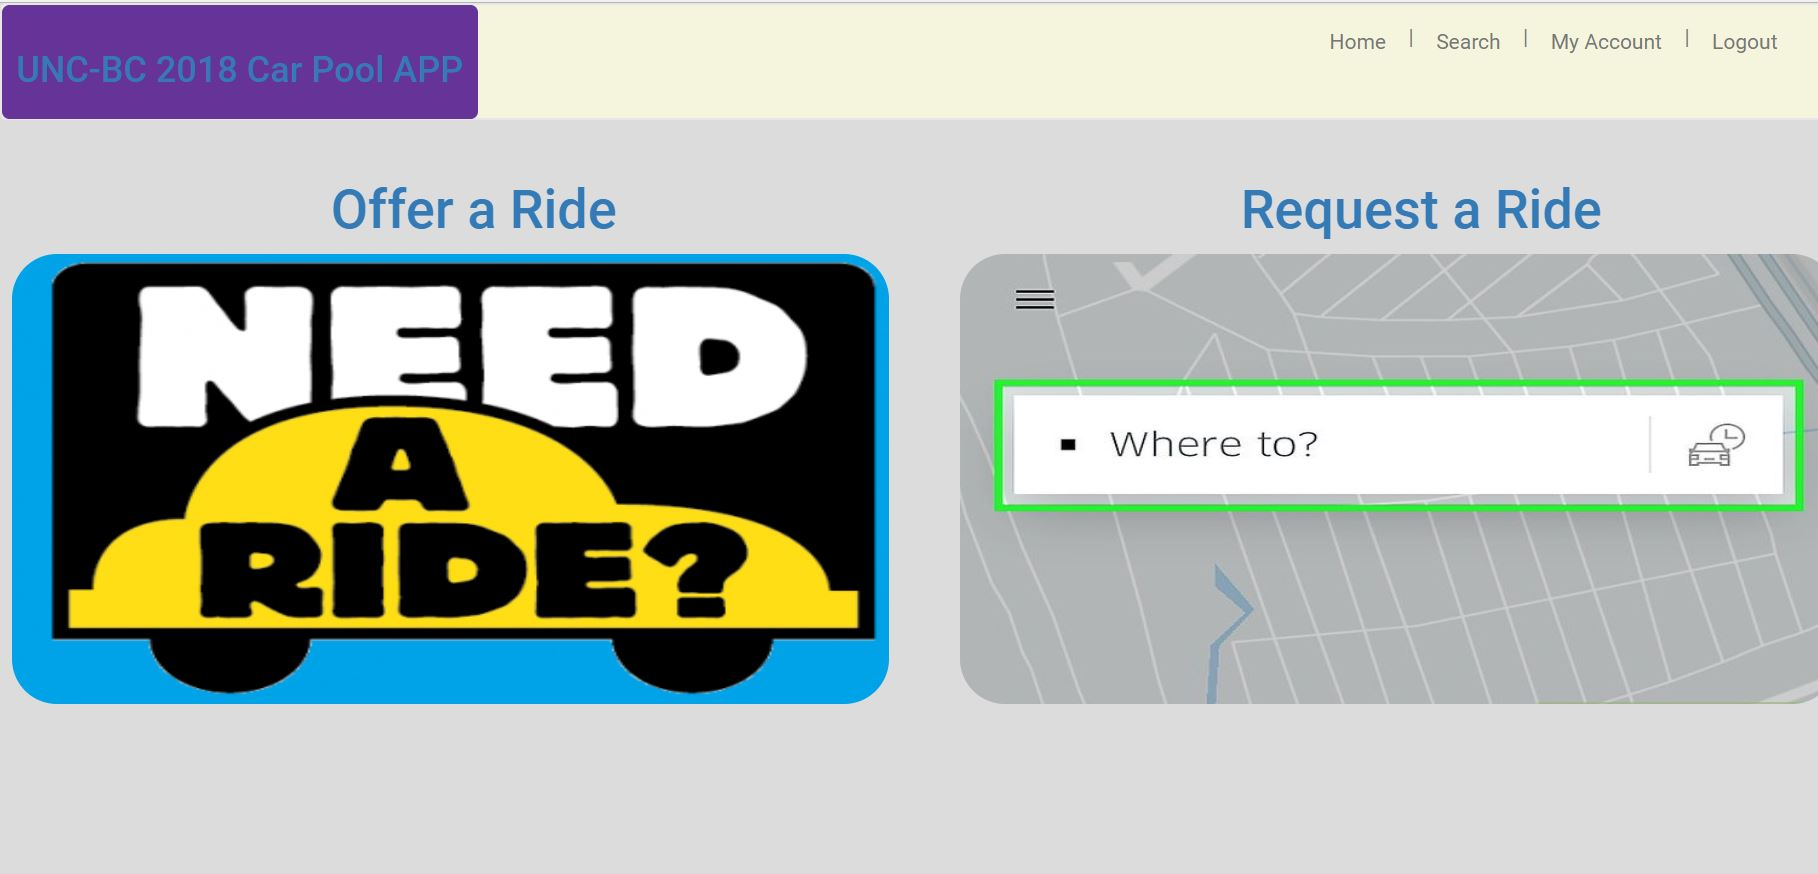
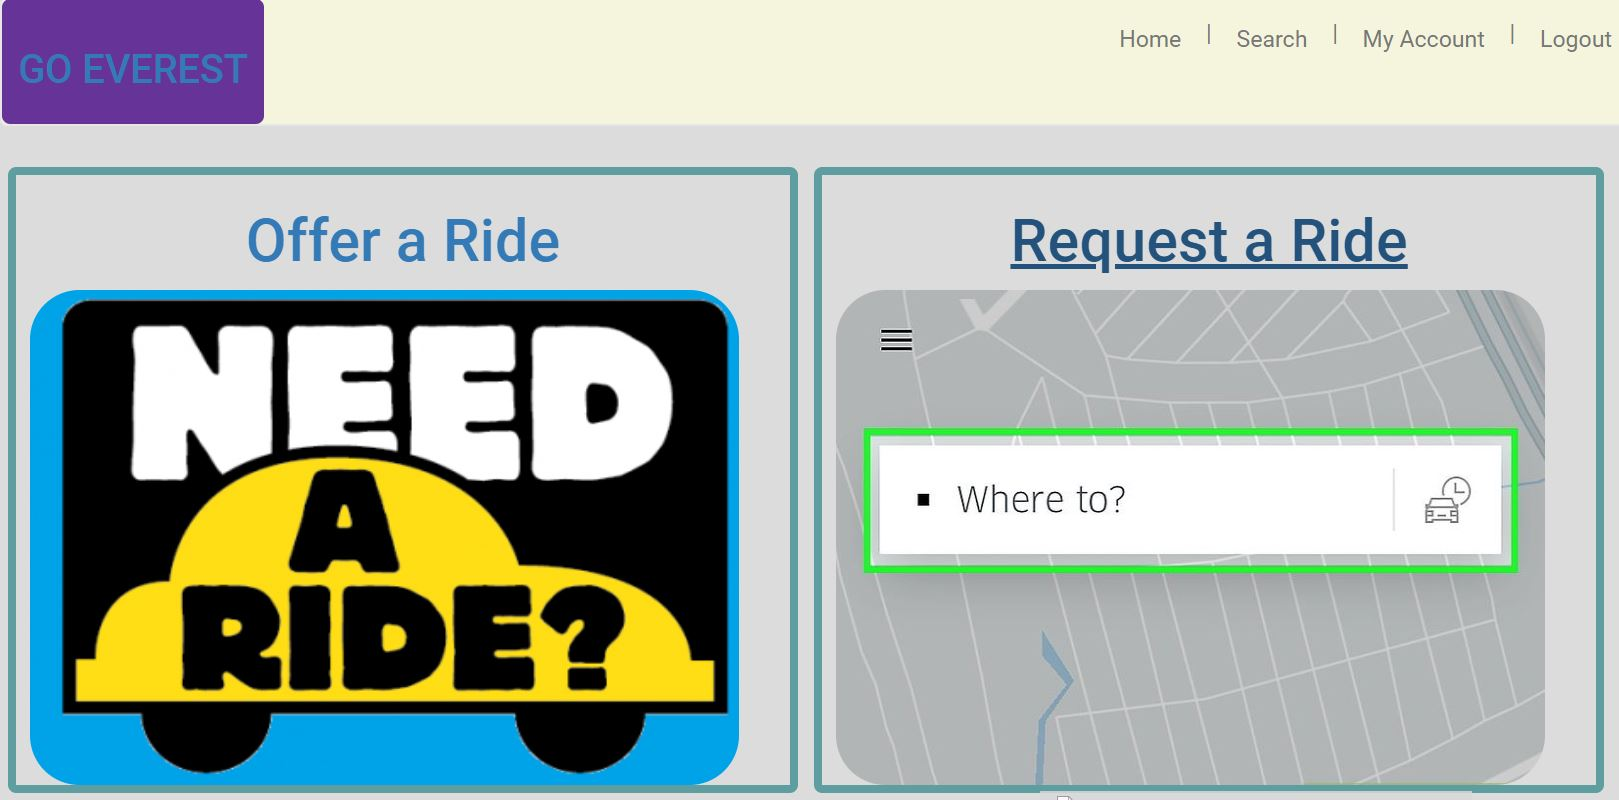
change: about and image

diff --git a/index.html b/index.html
@@ -45,17 +45,14 @@
                 <div class="col-md-12">
                   <img src="assets/images/IMG_20170412_082335.jpg" "150x150" alt="Placeholder" class="img-thumbnail">
                 
-                  <p><h3><u>Full Stack Web Developer:</u></h3></p><p>
+                  <p><h3><u>Full Stack Web Developer:</u></h3></p><p>I worked as web developer for four years.
                       I have knowledge and experience in HTML5, CSS3, PHP, JavaScript, jQuery, Bootstrap, Express.js, React.js, Node.js, Database Theory, MongoDB, MySQL, Git, C#, ASP.Net and various other leading-edge technologies. 
                       I recently completed a Certification for Full Stack Web Development through <a href="https://codingbootcamp.unc.edu/" target="_blank">The Friday Center at the University of North Carolina at Chapel Hill</a>.
                        Through this certification, I gained experience with the MERN Stack and developed various full stack applications. 
                        I love to learn new technologies and develop new applications. 
                        I am not currently linked on any sort of role in particular, and I am looking forward to contributing various projects as Full Stack Developer.
-                     </p><p> I am from physical science background and have MS in meteorology from  <a href="https://tribhuvan-university.edu.np/" target="_blank">Tribhuvan University</a>, Kathmandu, Nepal.  
-                      I worked as assistant meteorologist in climate field office, government of Nepal. 
-                      Apart from doing general duties of assistant meteorologist, I managed all administrative works of office as in-charge and developed good relations with public and other professionals. 
-                      The most satisfying work for me there was to make public and professionals realize the importance of accurate weather observations.
-                      </p><p> I love playing sports, hiking and travelling. 
+                     </p>
+                     <p> I love playing sports, hiking and travelling. 
                         I played cricket for my colleges (Tri-Chandra college and Tribhuvan University, Nepal) and currently playing <a href="https://trianglecricketleague.org/" target="_blank">triangle cricket league</a> for Cary Warriors in North Carolina, US.  
                         </p>
                   

diff --git a/portfolio.html b/portfolio.html
@@ -45,7 +45,7 @@
                             <hr/>
 
                         <div class="row singleitem">
-                                <h2 class="projectName">UNC-BC CARPOOL APP</h2>
+                                <h2 class="projectName">GO EVEREST</h2>
                                     <div class="col-sm-6 projectIcon">
                                         <a href="https://serene-reaches-68038.herokuapp.com/" target="_blank"><img class="wrap2" src="assets/images/carpool.JPG" height="200" width="95%" alt="carpool"/></a>
                                     </div>
